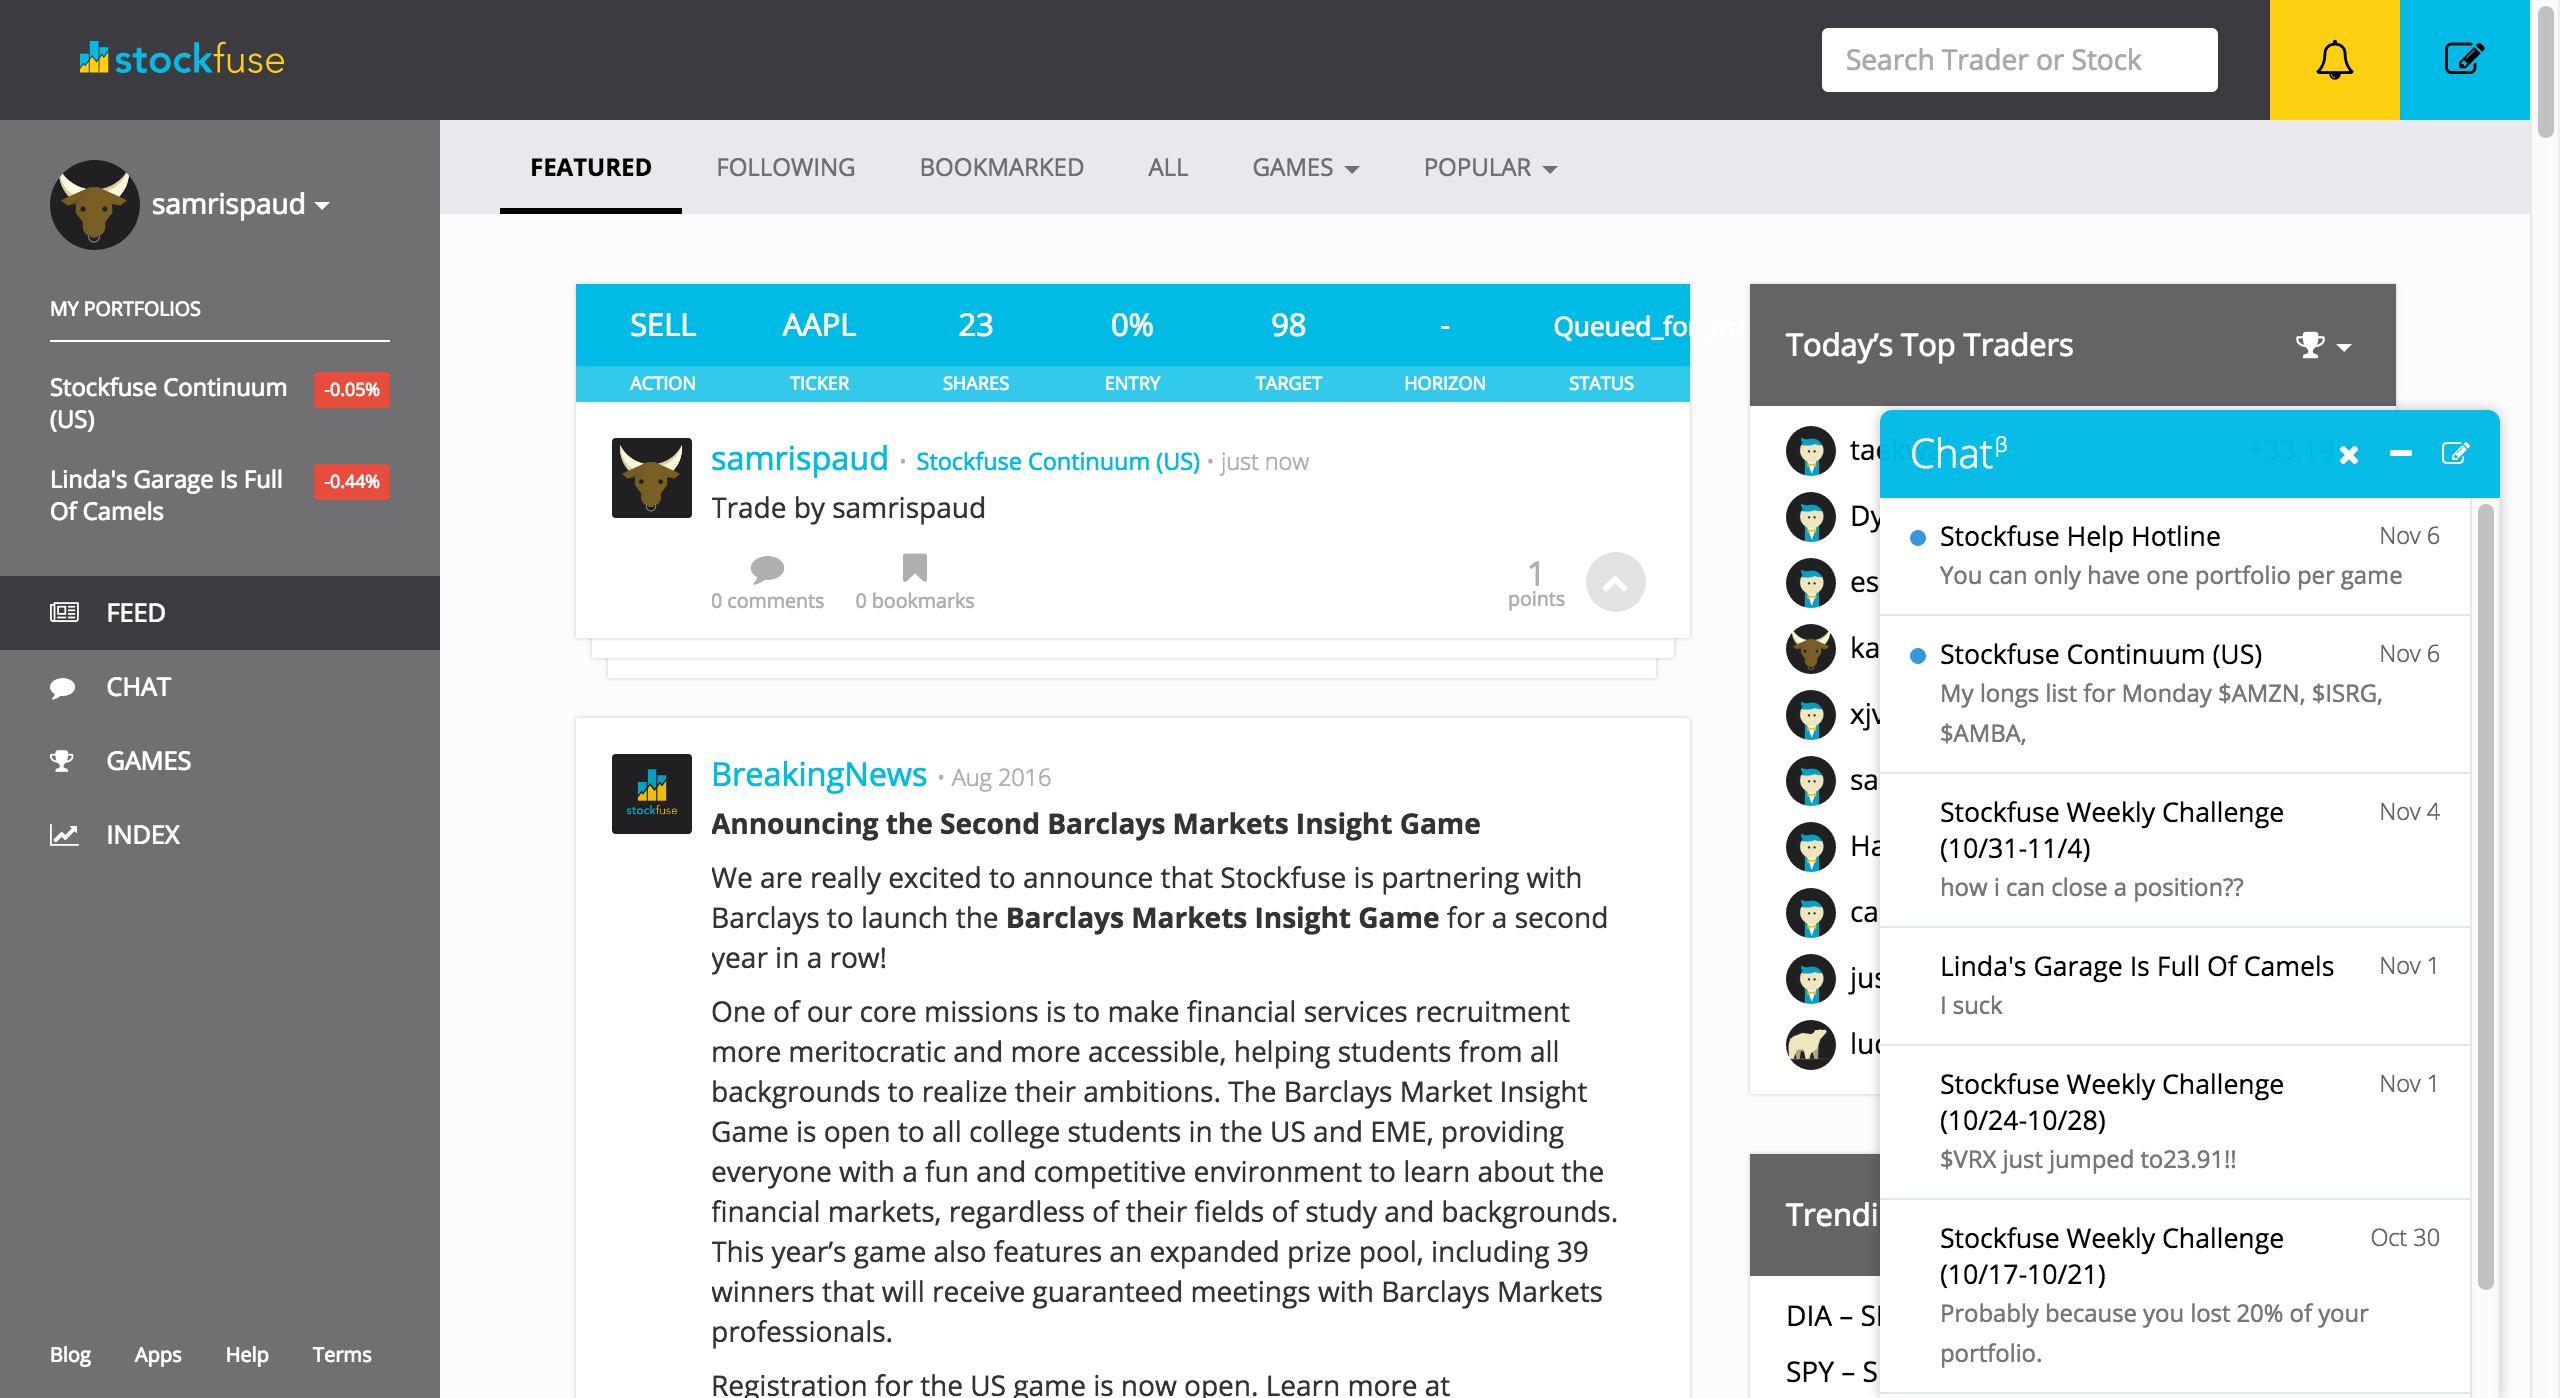
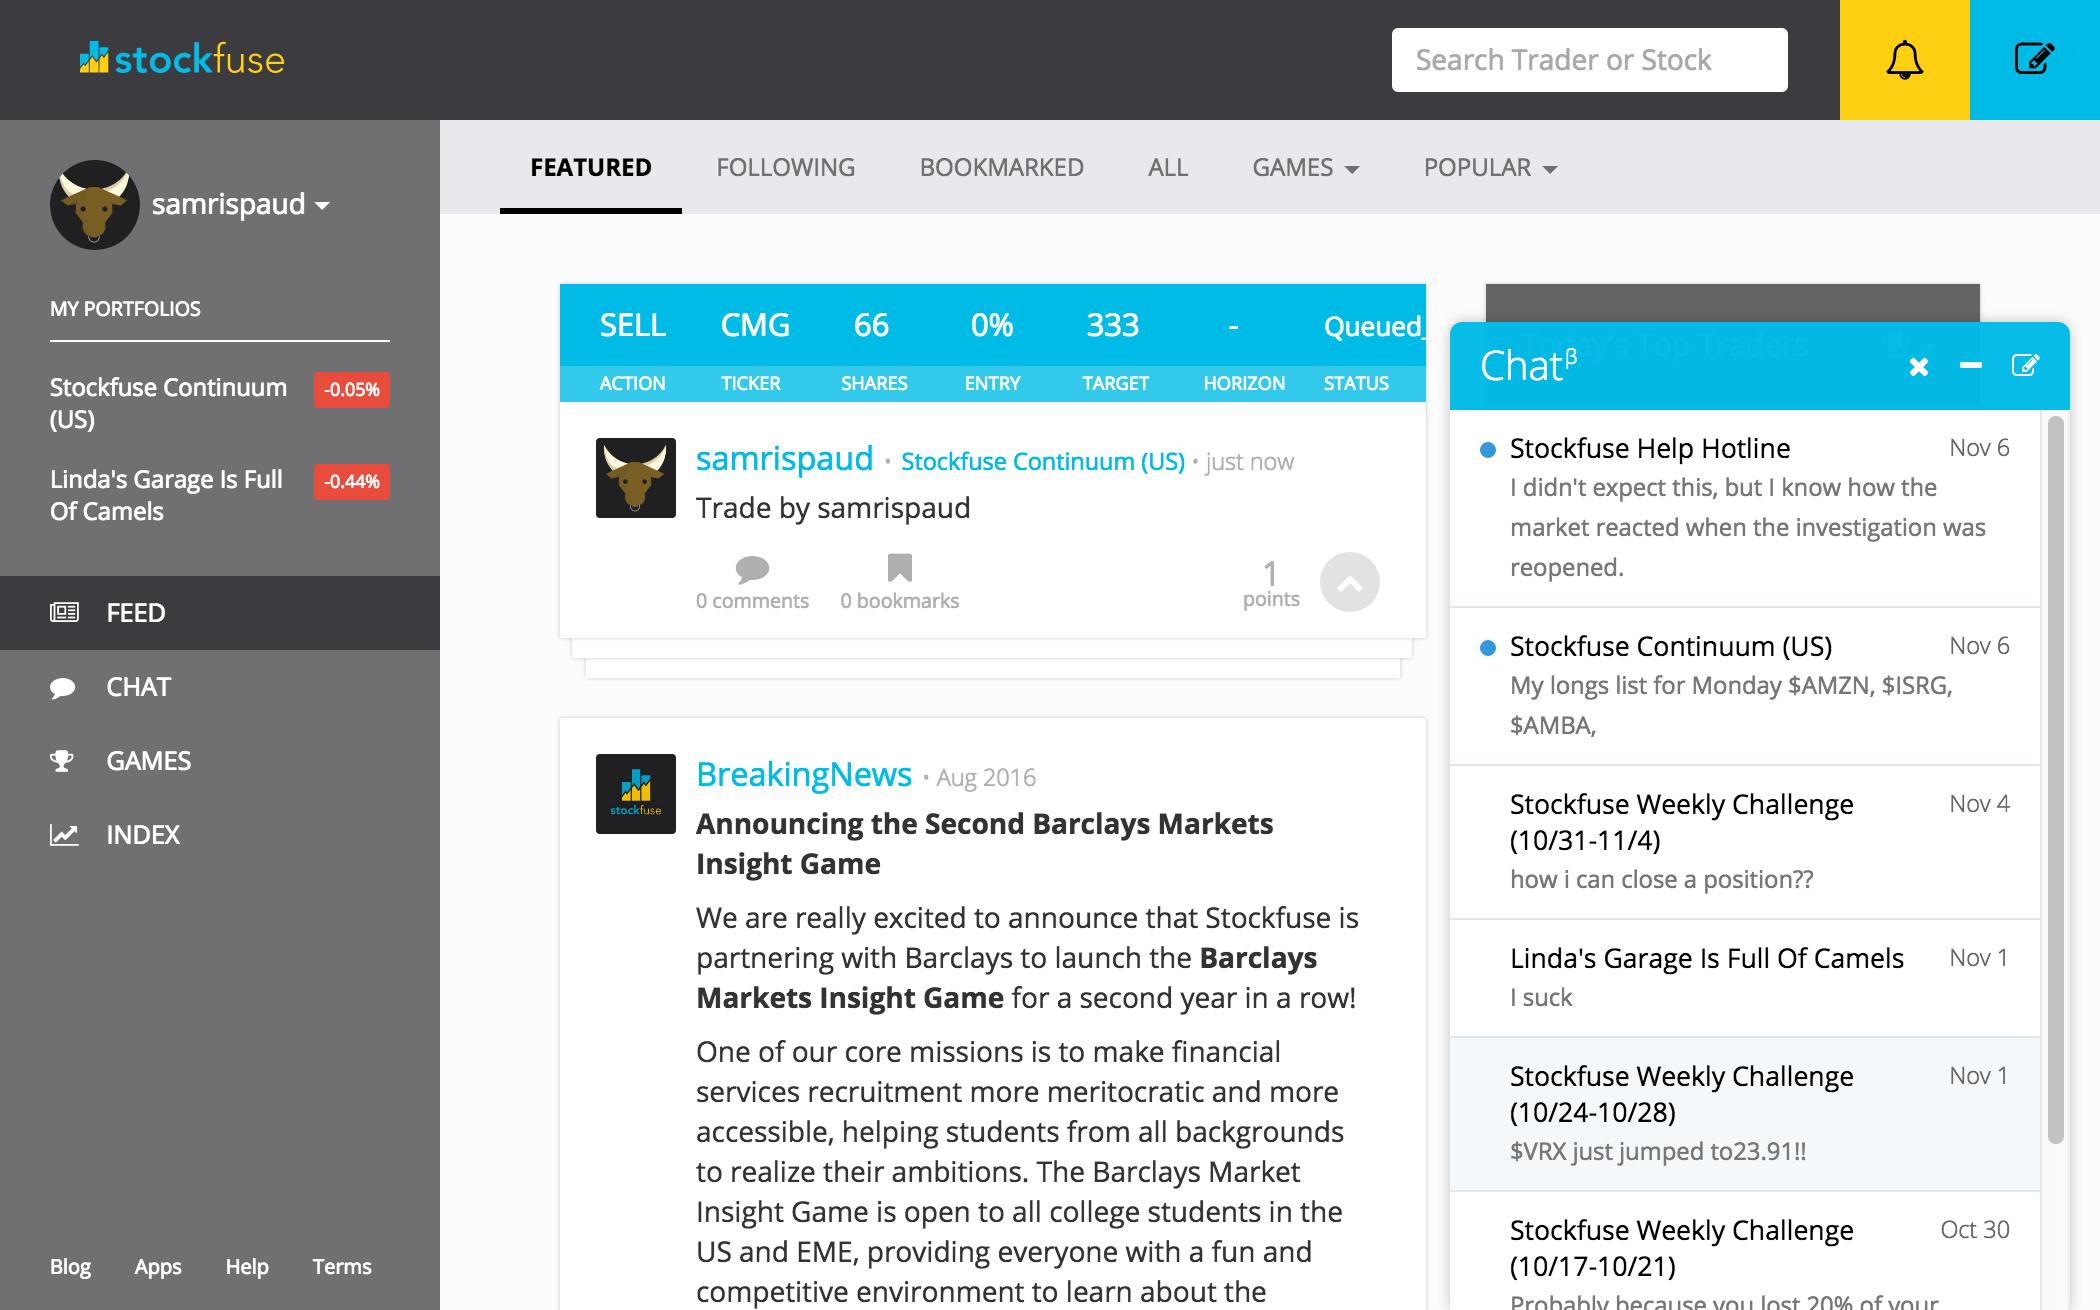
Refactor scraper module a bit

diff --git a/app/models/scraper/stockfuse.rb b/app/models/scraper/stockfuse.rb
@@ -4,50 +4,57 @@ require 'selenium-webdriver'
 
 module Scraper
   class Stockfuse
-    def self.logon
-      headless = Headless.new(dimensions: "1920x1080x24")
-      headless.start
-      driver = Selenium::WebDriver.for :chrome
+    attr_reader :errors
 
-      driver.navigate.to 'https://stockfuse.com/accounts/signin/?next=/'
-      driver.find_element(:id, "id_identification").click
-      driver.find_element(:id, "id_identification").clear
-      driver.find_element(:id, "id_identification").send_keys "samrispaud@gmail.com"
-      driver.find_element(:id, "id_password").click
-      driver.find_element(:id, "id_password").clear
-      driver.find_element(:id, "id_password").send_keys "Samuel2015"
-      driver.find_element(:id, "id_submit").click
-      driver.execute_script("$('.btn-fuse-new-trade').first().click()")
-      sleep(3)
-      driver.find_element(:id, "order-sell").click
-      ticker = driver.find_element(:xpath, "//form[@id='order-form']/div[4]/div/div/div[1]/input")
-      ticker.click
-      ticker.clear
-      ticker.send_keys "AAPL"
-      ticker.send_keys:return
-      driver.sendKeys(Keys.TAB)
-      driver.find_element(:name, "order-quantity").click
-      driver.find_element(:name, "order-quantity").clear
-      driver.find_element(:name, "order-quantity").send_keys "23"
-      if not driver.find_element(:xpath, "//form[@id='order-form']/div[7]/div[1]/select//option[1]").selected?
-          driver.find_element(:xpath, "//form[@id='order-form']/div[7]/div[1]/select//option[1]").click
+    def initialize(user)
+      begin
+        headless = Headless.new(dimensions: "1920x1080x24")
+        headless.start
+        @errors = []
+        @driver = Selenium::WebDriver.for :chrome
+        @driver.navigate.to 'https://stockfuse.com/accounts/signin/?next=/'
+        @driver.find_element(:id, "id_identification").send_keys user.email
+        @driver.find_element(:id, "id_password").send_keys user.password
+        @driver.find_element(:id, "id_submit").click
+      rescue => e
+        @errors << e
       end
-      driver.find_element(:name, "order-comment").click
-      driver.find_element(:name, "order-comment").clear
-      driver.find_element(:name, "order-comment").send_keys "Trade by samrispaud"
-      binding.pry
-      driver.save_screenshot 'before_trade.png'
-      driver.find_element(:xpath, "//div[@class='modal-footer']/button").click
-      sleep(10)
-      driver.save_screenshot 'after_trade.png'
-      driver.find_element(:css, "span.underline").click
-      driver.find_element(:xpath, "//div[@class='main-sidebar-user']//a[.='Sign Out']").click
-      driver.save_screenshot 'done.png'
-      driver.quit
-      headless.destroy
+    end
 
-
-      return headless, driver
+    def execute_order(order)
+      begin
+        @driver.execute_script("$('.btn-fuse-new-trade').first().click()")
+        sleep(3)
+        @driver.execute_script("$('.btn-fuse-new-trade').first().click()")
+        @driver.find_element(:id, "order-sell").click
+        ticker = @driver.find_element(:xpath, "//form[@id='order-form']/div[4]/div/div/div[1]/input")
+        ticker.click
+        ticker.clear
+        ticker.send_keys "CMG"
+        sleep(1)
+        ticker.send_keys:return
+        @driver.find_element(:name, "order-quantity").click
+        @driver.find_element(:name, "order-quantity").clear
+        @driver.find_element(:name, "order-quantity").send_keys "66"
+        if not @driver.find_element(:xpath, "//form[@id='order-form']/div[7]/div[1]/select//option[1]").selected?
+            @driver.find_element(:xpath, "//form[@id='order-form']/div[7]/div[1]/select//option[1]").click
+        end
+        @driver.find_element(:name, "order-comment").click
+        @driver.find_element(:name, "order-comment").clear
+        @driver.find_element(:name, "order-comment").send_keys "Trade by samrispaud"
+        binding.pry
+        # @driver.save_screenshot 'before_trade.png'
+        @driver.find_element(:xpath, "//div[@class='modal-footer']/button").click
+        sleep(10)
+        # @driver.save_screenshot 'after_trade.png'
+        @driver.find_element(:css, "span.underline").click
+        @driver.find_element(:xpath, "//div[@class='main-sidebar-user']//a[.='Sign Out']").click
+        # @driver.save_screenshot 'done.png'
+        @driver.quit
+        headless.destroy
+      rescue => e
+        @errors << e
+      end
     end
   end
 end
